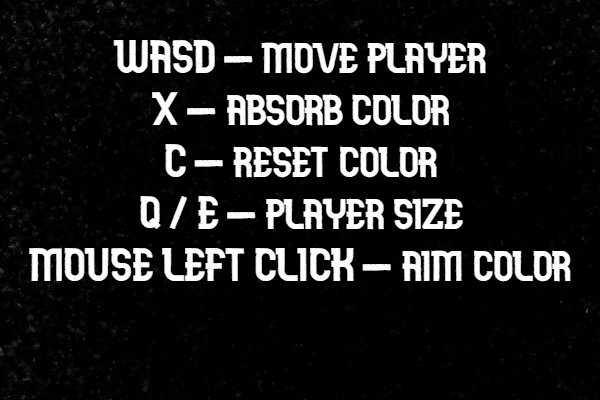
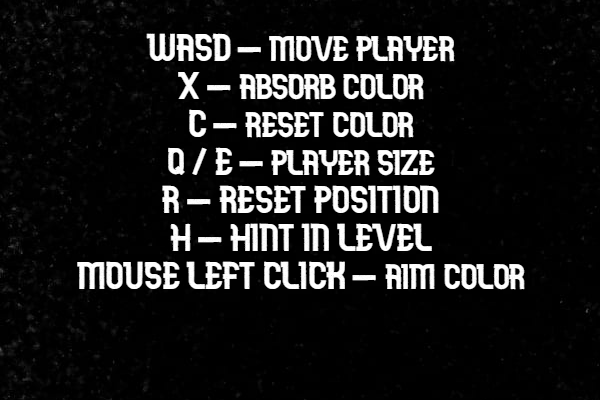
change in how to play

Changed region(s): [[0.03, 0.06, 0.96, 0.72]]

diff --git a/src/framework/world.cpp b/src/framework/world.cpp
@@ -137,7 +137,7 @@ void World::update(double seconds_elapsed) {
 	entities_to_destroy.clear();
 
 
-	if (Input::isKeyPressed(SDL_SCANCODE_O) ){
+	if (Input::isKeyPressed(SDL_SCANCODE_R) ){
 		Player::instance->model.setTranslation(starting_position);
 
 	}
